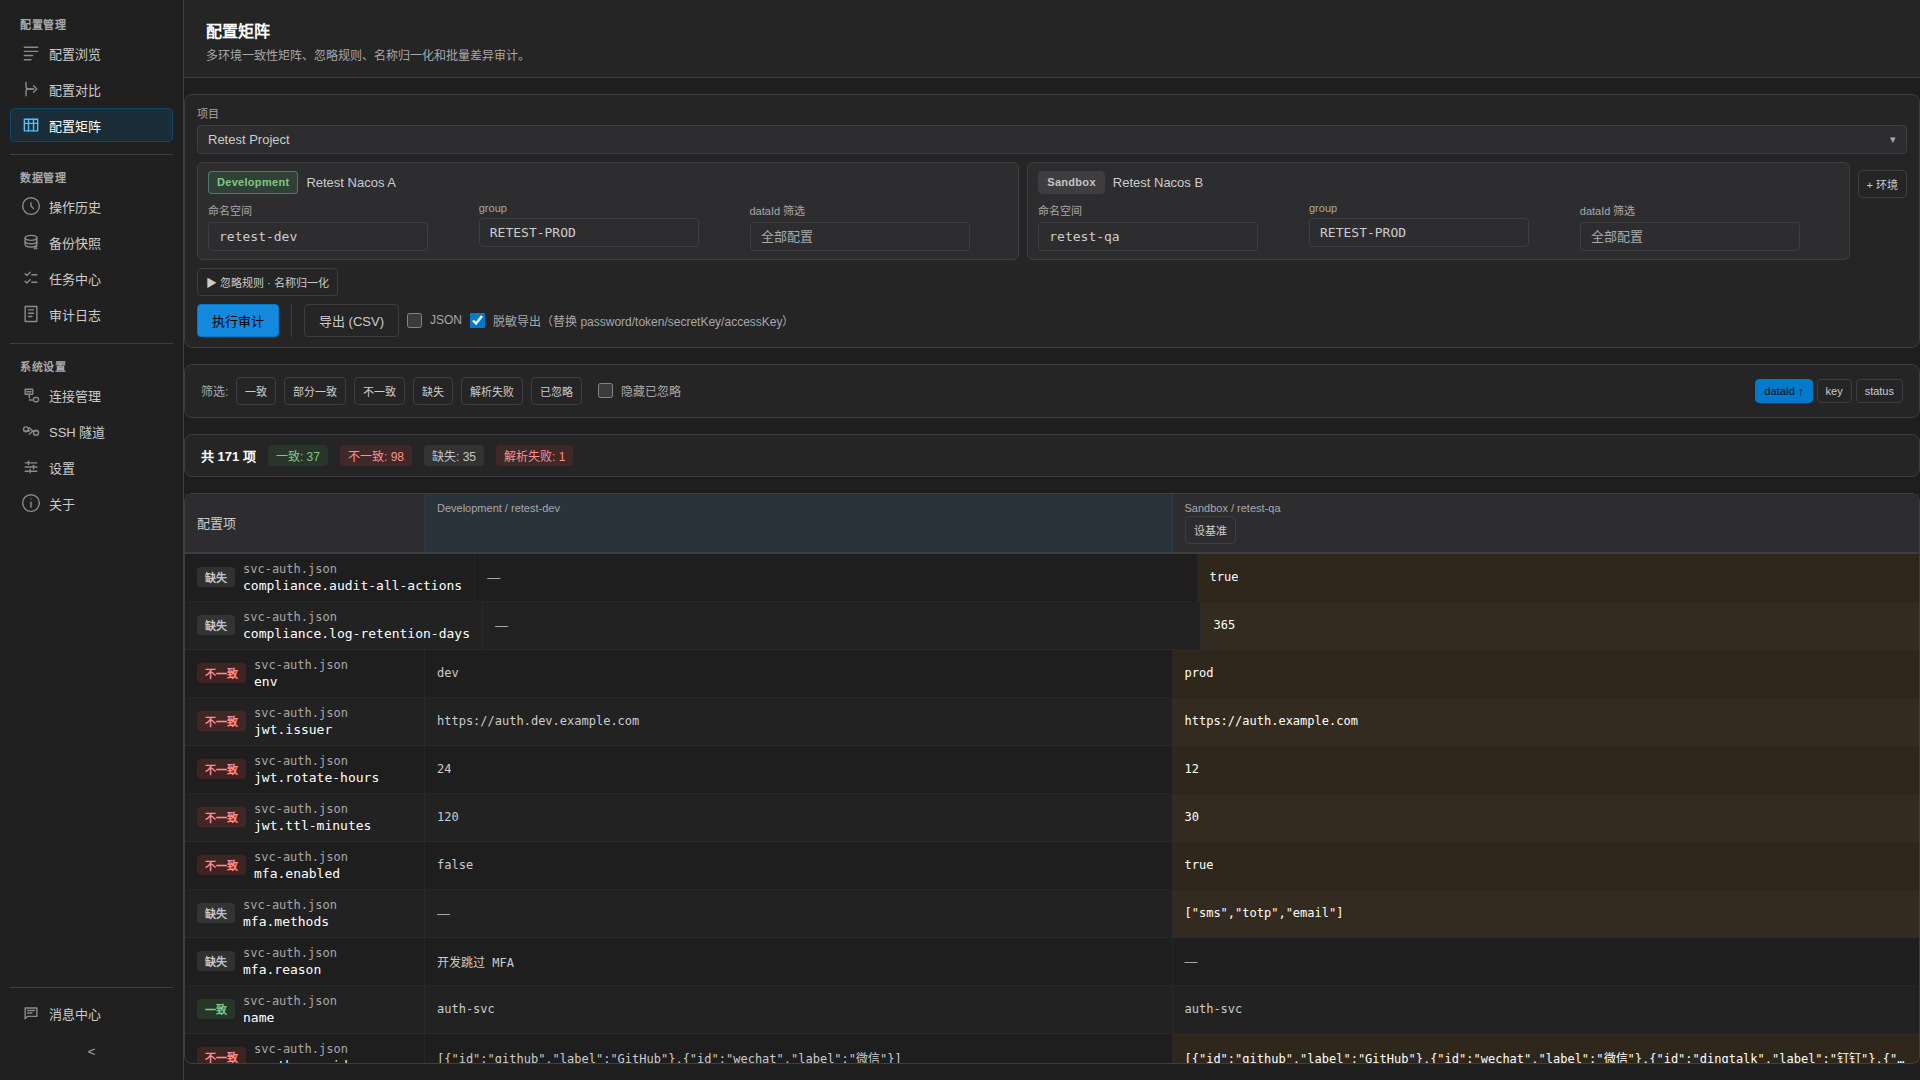
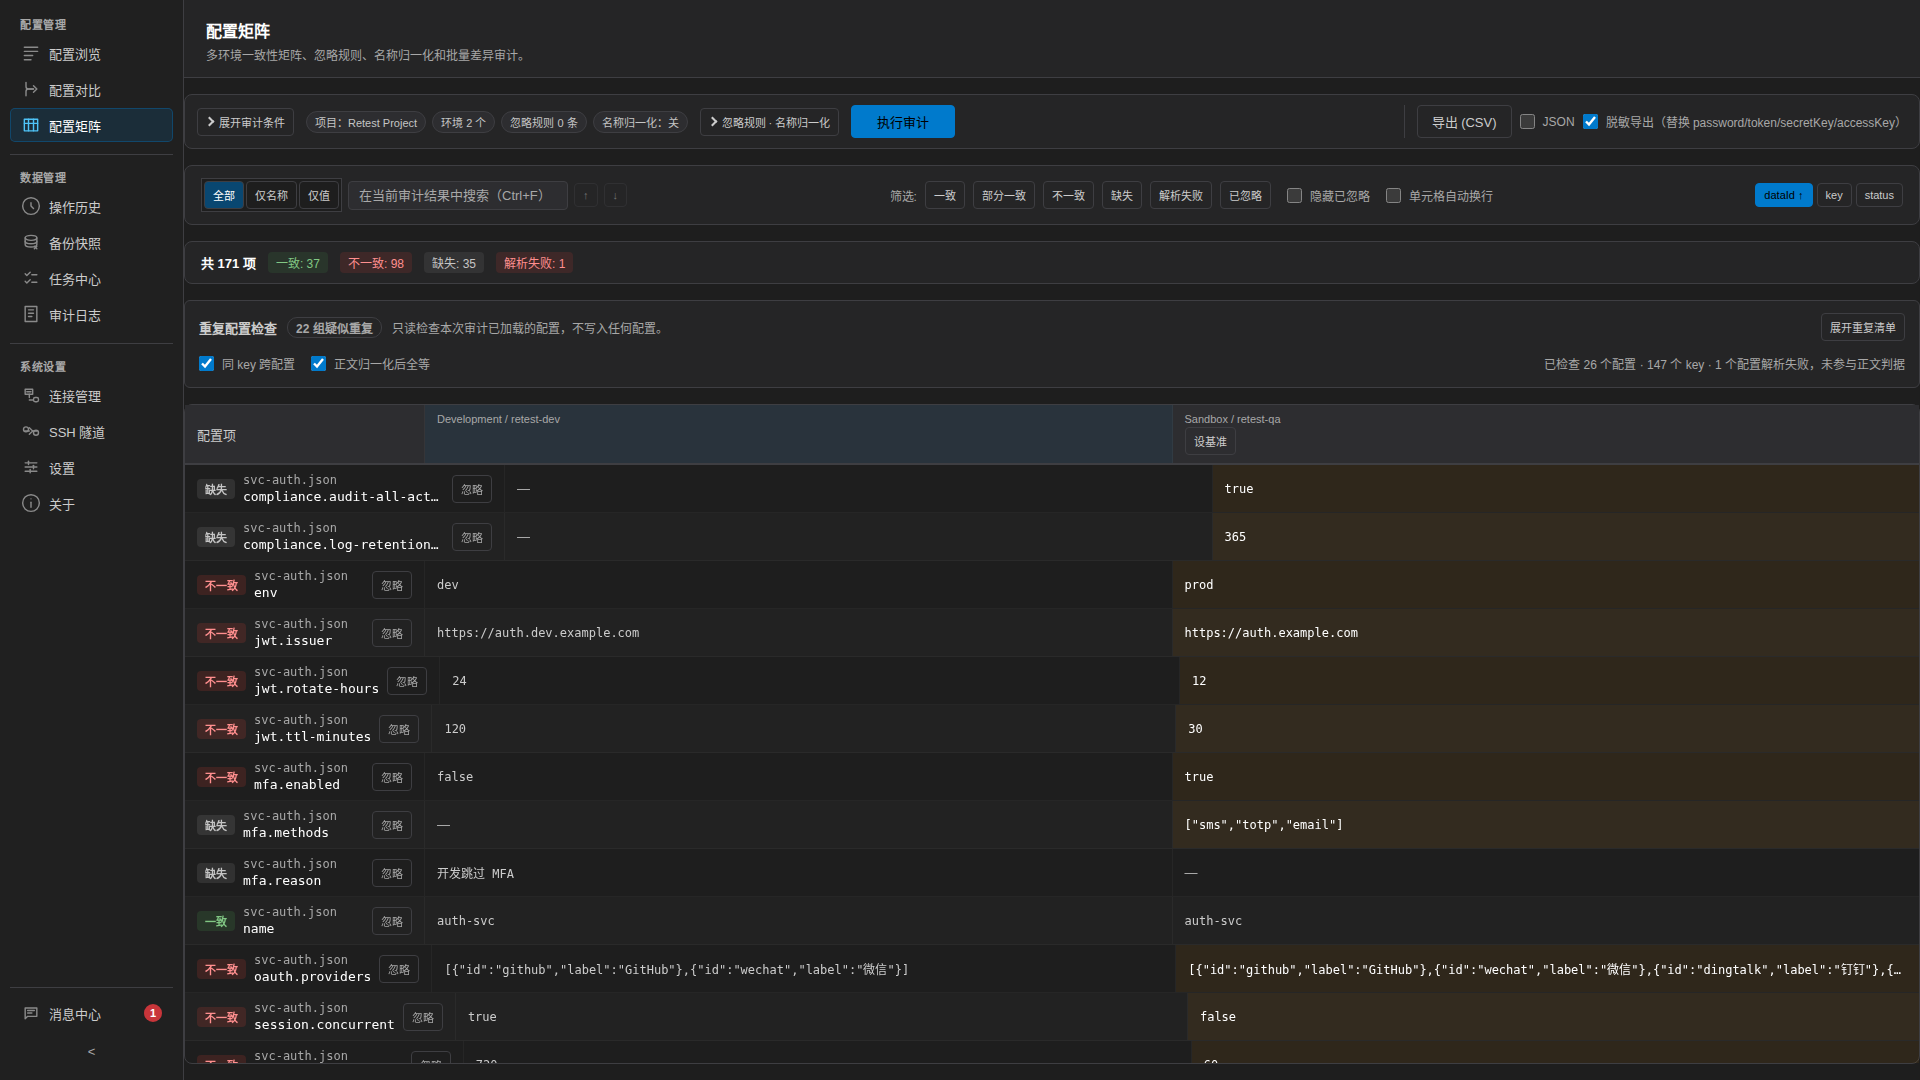
chore(release): 发布 1.11.1
- CHANGELOG 补 1.11.1 段落：Added 收 Windows 安装程序装完直接打开程序（首次安装收尾勾选、
  应用内升级问一句是否现在启动、旧窗口关不掉时不放第二个实例、起不来时交代去哪儿手动打开）；
  Changed 收矩阵条件区跑完审计自动折叠成摘要、行内快速忽略与撤销、单元格自动换行档、执行审计
  不再随进度变宽、审计日志页改成会话摘要加事件时间轴、表单与工作区随窗口伸缩、任务中心耗时并轨；
  Fixed 收迁库凭据编辑时读不回、只改名字把明文写回本地数据、复制连接的悬空指针、行内忽略钮
  静息对比度不达 AA、日志状态徽章失色、类型筛选计数自消失
- README 与仓库现实对齐：核心特性表的连接与来源管理、配置矩阵审计、留痕与消息、应用更新、界面
  五行跟上这一版的口径，界面预览的配置矩阵一节补折叠摘要、行内忽略与换行档；
  readmeStaysAlignedWithReality 登记 1.11.1 的五个关键词
- 配置矩阵截图用取证脚本重拍刷新（动作条常驻置顶、审计后条件区折叠成摘要行、行内「忽略」），
  已复核名册同步该图 md5 与来源说明，其余六张逐位一致未动
- 文案按用户读的口吻重写：Engineering 一节不再出现内部词，发布说明口吻检查覆盖到这一段
- package.json 1.11.0 升至 1.11.1，wails.json 的 info.productVersion 同步（安装包版本第二条通道）
- 门禁复跑：tsc 两份 tsconfig 0 错误 / eslint 0 error 4 既定 warn / go test 15 包全 ok /
  vitest 287 文件 3249 用例全绿 / build:web + check:bundle 通过

diff --git a/tests/ux/readmeStaysAlignedWithReality.test.ts b/tests/ux/readmeStaysAlignedWithReality.test.ts
@@ -185,6 +185,9 @@ describe("CHANGELOG 每个已发布版本的能力都要在 README 有据可查"
     // 1.11.0 的用户可见能力只有一件：配置矩阵的项目级跨环境内容搜索。
     // 关键词取 README 配置矩阵那节与特性表里确实出现的短语。
     "1.11.0": ["跨环境内容搜索", "只看命中行", "环境列头命中数"],
+    // 1.11.1 的用户可见改动：矩阵行内快速忽略与换行档、审计日志页重排、SSH 档案凭据回显、
+    // 页面随窗口伸缩、Windows 安装器装完打开程序。关键词取 README 里确实出现的短语。
+    "1.11.1": ["单元格自动换行", "事件时间轴", "读回表单", "是否现在启动", "随窗口伸缩"],
   };
   const COVERAGE_FLOOR = "1.9.12";
 

diff --git a/tests/ux/publicScreenshotsStaySanitized.test.ts b/tests/ux/publicScreenshotsStaySanitized.test.ts
@@ -78,8 +78,9 @@ const REVIEWED_CAPTURES: Record<string, ReviewedCapture> = {
       + "「本次改动」展开后的写前写后差异；正文为合成配置（dev_pass_123 之类来自复测种子）",
   },
   "配置矩阵.png": {
-    md5: "f14cb3f576d6f845e46964257bf4cc98",
-    note: "retest-dev / retest-qa 一致性矩阵，命名空间为合成名",
+    md5: "ede267901e7663b80f1ab2a3b943c180",
+    note: "轮143 重拍：retest-dev / retest-qa 一致性矩阵，命名空间为合成名；"
+      + "审计后条件区已折叠成摘要行，动作条常驻置顶，行内带「忽略」快捷按钮与「单元格自动换行」开关",
   },
 };
 

diff --git a/README.md b/README.md
@@ -98,6 +98,8 @@ dry-run 跑完才有这一屏：左边勾选要写入的项，右边逐条给出
 
 多环境一致性矩阵、忽略规则、名称归一化和批量差异审计，支持按状态筛选、排序与脱敏导出。一个项目下的所有环境可以做**跨环境内容搜索**：在当前审计结果上搜一次，命中的每一处标红、逐处跳转（`Ctrl+F` 唤起、`1/N` 定位、↑↓ 或 `F3` 走位），环境列头直接给出这一列命中几处，默认「只看命中行」，范围可切「全部 / 仅名称 / 仅值」。
 
+跑完审计，条件区自动收起成一行摘要（项目、环境数、忽略规则条数、名称归一化开关），把位置让给表格，要改条件点「展开审计条件」回去；矩阵每行带一枚「忽略」，点一下写入忽略规则并当场重排（用的是已经取回的数据，不再多扫一遍网络），回执上有「撤销」；过滤栏的「单元格自动换行」放开行高，长值不必逐格悬停才看得全，这一档会被记住。
+
 <p align="center">
   <img src=".github/assets/配置矩阵.png" alt="配置矩阵：多环境一致性审计" />
 </p>
@@ -124,23 +126,23 @@ dry-run 跑完才有这一屏：左边勾选要写入的项，右边逐条给出
 
 | 模块 | 说明 |
 | --- | --- |
-| 连接与来源管理 | 按项目、环境、来源管理多套配置中心连接；Nacos/Apollo/Consul/本地快照统一入口 |
+| 连接与来源管理 | 按项目、环境、来源管理多套配置中心连接；Nacos/Apollo/Consul/本地快照统一入口；编辑已经迁移进系统凭据库的 SSH 隧道档案或连接，打开时把值读回表单并在字段下标明这一项存放在系统凭据库里，只改名字之类其他字段不会把明文写回本地数据，这台机器读不回来时直说请重新填写 |
 | 配置浏览 | 命名空间、Apollo App/Cluster/Namespace、Consul KV prefix、本地快照目录统一浏览；行号、语法高亮、缩略图、`Ctrl+F` 就地查找与命中定位；就地编辑期间服务端把同一份配置改了内容时不静默覆盖你的文字，提示后可选「改用服务端最新内容」或「继续用我的改动」；服务端正文这次没取到也不收起编辑器，草稿照旧可改、可用「复制草稿」抄走，重新载入成功之前不给生成变更计划 |
 | 内容搜索 | 跨配置按正文搜索，命中片段与处数一并给出，命中项可勾选进入批量替换 |
 | 差异对比 | 单文件与批量对比、行级与键级差异、按差异块跳转、跨项内容搜索与 A/B 分侧命中计数、第三步人工微调右侧目标内容（手写值带「人工微调」徽标进计划）、导出差异 |
-| 配置矩阵审计 | 多环境/多来源一致性矩阵、忽略规则、名称归一化、差异定位、CSV/JSON 脱敏导出；项目级跨环境内容搜索（命中逐处标红、`1/N` 与 ↑↓/`F3` 跳转、环境列头命中数、默认只看命中行、范围三档、空白处 `Ctrl+F` 唤起、未跑审计时回车先跑再搜、零命中说清作用域）；另有只读的跨配置重复检查（同一个 key 出现在多个配置、正文归一化后全等两条规则，忽略清单支持 `*` 通配，勾两个位置可送去对比或生成回退计划） |
+| 配置矩阵审计 | 多环境/多来源一致性矩阵、忽略规则、名称归一化、差异定位、CSV/JSON 脱敏导出；项目级跨环境内容搜索（命中逐处标红、`1/N` 与 ↑↓/`F3` 跳转、环境列头命中数、默认只看命中行、范围三档、空白处 `Ctrl+F` 唤起、未跑审计时回车先跑再搜、零命中说清作用域）；另有只读的跨配置重复检查（同一个 key 出现在多个配置、正文归一化后全等两条规则，忽略清单支持 `*` 通配，勾两个位置可送去对比或生成回退计划）；执行审计后条件区自动折叠成摘要行、动作条常驻置顶且不再随进度文案变宽，行内「忽略」与「撤销」不必绕去设置页，「单元格自动换行」可记住
 | 版本历史 | 服务端历史与本机历史并列展示，两边都可达时才出现切换分段；程序读到正文记一版、写入并回读确认再记一版，回滚仍走变更计划五步审核；单条正文超限只留摘要与字节数并如实标注；保留策略为最早一版锚点加最近 N 版，N 在设置页的「每配置保留版数」里可调，某一版可以单独「钉住」让清理永不删它（正文相同的行一起保住），调小上限后点「按新上限清理」立刻腾出磁盘；设置页可见其体量与落点并可单独清除 |
 | 安全变更计划 | ApplyPlan dry-run、before 备份、受保护目标强确认、沙箱验证与回滚链路；受保护目标按连接与环境的名称识别，执行前必须手敲确认文本，名字里没有「生产」这类标记时当场提醒再确认一次；程序不替你判定哪一套环境算生产，要把改动落到别的环境，就从配置浏览或配置对比正常发起一份计划、把那一套环境选成目标，五步审核与强确认照常生效；浏览页的新建、编辑覆盖、删除与历史回滚也统一物化成变更计划入口，没有绕过 dry-run 的直写路径 |
 | 执行安全 | 执行前最后一刻复检目标内容指纹，线上被别人改过就中止而不是覆盖；写入前校验阿里云 MSE 的 AK/SK，缺凭据就地报错而不是匿名写出去吃 403；写入后逐项回读，报出「已确认 / 有漂移 / 读不到」三态，半截失败也回读已写入的部分；失败记录仍带写前快照，可据此构造回退入口；半截写入（前面几条已生效、后面失败）在失败面板直接放出这个入口，回退与沙箱验证的范围按这一次真正覆盖到的位置收口，不拿完整计划当作用范围；同一面板另有「跳过这一项，继续剩下的」，摘掉失败项把剩下的写完，前面已经写成的不会被重复写入；目标已经是这一版的项自动跳过，不写入、不进本次备份，勾选项全部已达成时如实说明「没有需要写入的内容」，也不记操作历史；执行结果的「已应用 N 项」按真正写成的条数计，与同一次操作历史里的「本次写入」一致；被配置中心拒绝时报错说得出下一步——权限类拒绝讲清楚该为这个账号开哪一项权限（写入被拒说写入、读取被拒说读取），服务端没接受这次写入时点名是哪一个配置没写成（位置到命名空间/分组/配置名），错误里的请求地址不带 Nacos 会话令牌，可以放心复制 |
 | 操作历史 | 点开一条成功记录就地看到「本次改动」：逐项列出写前与写后的差异，汇总「本次写入 N 项，其中 M 项有实际变化」并可只看有变化的配置，不必先生成一份回退计划；逐条说明能不能回退、不能回退缺了哪一环，可回退的直接生成回退计划，「只看可回退」筛选会被记住；沙箱验证状态（标在哪套环境的哪个命名空间、什么时间）也在这一屏 |
-| 留痕与消息 | 会话审计日志 `audit-trail.jsonl` 记录对比、审计与执行三类会话的全过程；长任务的完成与失败汇总进消息中心，即时提示只出现在窗口右下角并在几秒后自动收起，程序自己发现的事只亮未读角标、不打断当前操作 |
+| 留痕与消息 | 会话审计日志 `audit-trail.jsonl` 记录对比、审计与执行三类会话的全过程；审计日志页先看会话再看事件——每行给出状态、类型、时刻、这一趟做了什么的一句话摘要，以及这次会话留下几条事件、比对出多少处差异，点开是按时间排列、按档位上色、出错那条直接高亮的事件时间轴，可一键展开或收起全部，原始 JSONL 收进默认折叠的一栏，类型筛选的计数按全部会话算、档位之间可以直接来回切；长任务的完成与失败汇总进消息中心，即时提示只出现在窗口右下角并在几秒后自动收起，程序自己发现的事只亮未读角标、不打断当前操作 |
 | 备份恢复 | 应用数据 `.csbackup` 本地/WebDAV 备份恢复；配置快照 `.cssnapshot` 本地/WebDAV 同步 |
 | SSH 隧道 | 可复用 SSH profile，覆盖 SSH 连接测试与 Nacos over SSH；拨号前校验服务器的主机密钥——第一次连接某台主机时确认算法与指纹并记在本机，之后再连不再询问，指纹与记录不一致直接拒绝连接、认证信息不会发出去，也没有任何跳过校验的放行入口；本机记录与 OpenSSH `known_hosts` 共用同一份写法（非默认端口记作 `[主机]:端口`） |
 | 凭据安全 | 连接口令与 SSH 私钥、passphrase 这类大凭据都存进操作系统的凭据库（Windows 凭据管理器 / macOS 钥匙串 / Linux Secret Service，私钥在 Windows 落为只对你这个登录用户生效的加密文件），主数据文件里只存 `secretRef`；设置页「系统凭据库」一处可把本机已有的明文凭据迁入并如实报出迁移结果；备份包仍支持跨机器迁移 |
 | 数据位置 | 数据根按运行形态解析（便携版随程序目录走，安装版落系统用户数据目录），设置页展示命中档位与各类数据落点，并支持换根迁移与回退 |
-| 应用更新 | 应用内检查更新，更新说明与 GitHub Release 正文同源（都取自 CHANGELOG 同一段落）；Windows 安装版不再卡在「等待 ConfScope 退出」：等不到退出就把正在运行的那一份让到一边、新版本照常装到原位置，旧副本在下次启动时自动清理，全程不强杀进程 |
+| 应用更新 | 应用内检查更新，更新说明与 GitHub Release 正文同源（都取自 CHANGELOG 同一段落）；Windows 安装版不再卡在「等待 ConfScope 退出」：等不到退出就把正在运行的那一份让到一边、新版本照常装到原位置，旧副本在下次启动时自动清理，全程不强杀进程；Windows 安装程序装完直接把程序打开——首次安装的收尾页默认勾选「运行 ConfScope」，应用内「退出并安装」升级的会问一句「是否现在启动」，旧窗口一直关不掉时不会贸然再开一个实例共用同一份本地数据并把原因说清楚 |
 | 反馈通道 | 关于页「反馈问题」打开 Issue 时预填问题描述、复现步骤、期望表现三段，并自动带上版本号、平台、运行形态、安装包名与界面语言；环境块就地可见可复制，不用手抄 |
-| 界面 | 中文/英文文案，环境名推断出统一色调档（dev/test/staging/canary/prod/local），键盘可达性与读屏语义持续收敛 |
+| 界面 | 中文/英文文案，环境名推断出统一色调档（dev/test/staging/canary/prod/local），连接管理表单与设置页工作区随窗口伸缩、不再钉死最大宽度（980px 以下窄窗口排布不变），键盘可达性与读屏语义持续收敛 |
 | 真实环境测试 | Docker Nacos/Apollo/Consul/WebDAV/SSH fixture + Windows native Wails smoke 覆盖主流程 |
 
 ## 数据与凭据边界

diff --git a/CHANGELOG.md b/CHANGELOG.md
@@ -14,6 +14,8 @@ scripts/extract-release-notes.mjs），1.0.0 起各段已按 tag 区间提交取
 
 ## [Unreleased]
 
+## [1.11.1] - 2026-10-30
+
 ### Added
 - **Windows 安装程序装完可以直接把 ConfScope 打开**。首次安装的收尾页默认勾上「运行 ConfScope」；
   用应用内「退出并安装」升级的，装完会问一句「是否现在启动」，点「是」立刻打开，不必再去桌面找图标。
@@ -23,7 +25,41 @@ scripts/extract-release-notes.mjs），1.0.0 起各段已按 tag 区间提交取
   配置与凭据数据没有被动过，不再留一个毫无反应的桌面让人猜是不是装坏了。
 
 ### Changed
-- 应用内「退出并安装」的说明跟上这个变化，写清装完之后会问一句要不要立刻打开。
+- **应用内「退出并安装」的说明跟上这个变化**，写清装完之后会问一句要不要立刻打开。
+- **配置矩阵的条件区跑完审计自动让位给表格**。「执行审计」提到页面最上方常驻，不再压在整排环境卡片下面；
+  跑完审计把条件区收起成一行摘要（哪套项目、几个环境、几条忽略规则、名称归一化开没开），悬停摘要能看清
+  具体条件，点「展开审计条件」回去改。还没跑过审计时条件区照常展开，第一次进来不会撞上一行看不懂的东西。
+- **忽略一条差异不再需要绕去设置页**。矩阵每行放一枚「忽略」，配置详情里是「忽略该配置项」：点一下写入忽略规则并当场
+  重排矩阵，用的是已经取回的数据，不会多扫一遍网络；回执上带着「撤销」，误点了直接收回。写进去的规则
+  用归一化后的配置名，开着名称归一化时也能真的命中。
+- **矩阵格子可以自动换行**。过滤栏多一个开关：长值最多显示四行、配置名最多两行，行高跟着放开，
+  不用逐格悬停才知道完整内容；这一档会被记住，下次进页面还是你上次选的样子。
+- **「执行审计」不再一边跑一边变宽**。扫描进度从按钮文字里搬出来，单独占一栏常驻位置，
+  整条动作条不会随着进度文案左右抖。
+- **审计日志改成先看会话、再看事件**。列表每行给出状态、类型、时刻、这一趟做了什么的一句话摘要，
+  以及这次会话留下几条事件、比对出多少处差异；点开是一条按时间排列的事件流，按档位上色、出错的那条直接
+  高亮，可以一键展开全部或收起全部，原始 JSONL 收进默认折叠的一栏，需要核对原文时再打开。
+- **连接管理的表单与设置页的主体跟着窗口伸缩**，不再钉死一个最大宽度：窗口拉宽，表单就跟着变宽，
+  两侧不再留大片空白。窄窗口（980px 以下）的排布与原来一致。
+- 任务中心的耗时与界面其他地方统一口径（`75m 30s` 写作 `1h 15m`、`3m 5s` 写作 `3m 05s`）。
+
+### Fixed
+- **编辑已经迁移过凭据的 SSH 隧道档案与连接，不再是一片空白**。把口令与私钥口令迁进系统凭据库之后，
+  再打开这份档案时表单连自己填过的内容都显示不出来，只能从头重填。现在打开就把值读回来，字段下面说明
+  这一项存放在系统凭据库里；这台机器读不回来时直说请重新填写，不再静默留空让你以为档案被清空了。
+- **只改个名字保存，不会把明文凭据悄悄写回本地数据**：编辑后保存，凭据仍留在系统凭据库，本地只保留指向
+  它的引用。复制连接也不再出现「新记录指着旧凭据」——以前复制出来的连接因为指针还指向源记录而取不到凭据。
+- **配置矩阵行内那枚「忽略」按钮在不悬停时也看得清了**。它的静息状态原本靠半透明淡出，深色行底上文字
+  对比度达不到 WCAG AA 的最小可读门槛；现在改用字色分档，静息弱一档、悬停与键盘聚焦抬到全亮，
+  观感不变而每一档都可读。
+- **审计日志的状态徽章恢复了颜色**（失败 / 成功 / 进行中此前一律显示成没有样式的纯文字）。
+- **审计日志的类型筛选不再会自己消失**。计数原先从已经筛过的结果里算，选中一档之后其余档位归零、
+  按钮就从页面上没了，只能先清掉筛选再换档；现在计数按全部会话算，档位之间可以直接来回切。
+
+### Engineering
+- 这一版没有改动本地数据格式：升级后连接、操作历史、备份快照与本机版本记录照常可用，不需要迁移。
+- 补了两条可重复的检查，盯住这两处最容易复发的毛病：凭据迁进系统凭据库之后重开档案读不回自己填过的内容、
+  只改个名字保存却把明文写回本地数据。
 
 ## [1.11.0] - 2026-10-30
 
